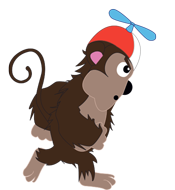
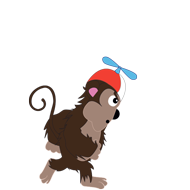
Add monkey sprites

Changed region(s): [[0.0286, 0.0263, 0.9143, 1.0], [0.8, 0.2368, 0.8286, 0.2895]]

diff --git a/iOS/BaoMonkey/ViewController.m b/iOS/BaoMonkey/ViewController.m
@@ -75,16 +75,25 @@
     [PreloadData loadDataWithKey:[SKTexture textureWithImage:[UIImage imageNamed:@"banana"]] key:DATA_BANANA_TEXTURE];
     [PreloadData loadDataWithKey:[SKTexture textureWithImage:[UIImage imageNamed:@"coconut"]] key:DATA_COCONUT_TEXTURE];
     [PreloadData loadDataWithKey:[SKTexture textureWithImage:[UIImage imageNamed:@"prune"]] key:DATA_PRUNE_TEXTURE];
-    [PreloadData loadDataWithKey:[SKTextureAtlas atlasNamed:@"MonkeyWalking"] key:DATA_MONKEY_WALK_ATLAS];
-    [PreloadData loadDataWithKey:[SKTexture textureWithImage:[UIImage imageNamed:@"monkey"]] key:DATA_MONKEY_TEXTURE];
+    
+    [PreloadData loadDataWithKey:[SKTexture textureWithImage:[UIImage imageNamed:@"monkey-waiting"]] key:DATA_MONKEY_WAITING];
+    [PreloadData loadDataWithKey:[SKTexture textureWithImage:[UIImage imageNamed:@"monkey-waiting-coconut"]] key:DATA_MONKEY_WAITING_COCONUT];
+    [PreloadData loadDataWithKey:[SKTexture textureWithImage:[UIImage imageNamed:@"monkey-launch-coconut"]] key:DATA_MONKEY_LAUNCH_COCONUT];
+    [PreloadData loadDataWithKey:[SKTextureAtlas atlasNamed:@"MonkeyWalking"] key:DATA_MONKEY_WALKING_ATLAS];
+    [PreloadData loadDataWithKey:[SKTextureAtlas atlasNamed:@"MonkeyWalkingWithCoconut"] key:DATA_MONKEY_WALKING_COCONUT_ATLAS];
+    [PreloadData loadDataWithKey:[SKTextureAtlas atlasNamed:@"MonkeyDead"] key:DATA_MONKEY_DEAD_ATLAS];
+    
     [PreloadData loadDataWithKey:[SKTexture textureWithImage:[UIImage imageNamed:@"lamber-jack-waiting"]] key:DATA_LAMBERJACK_WAITING];
     [PreloadData loadDataWithKey:[SKTextureAtlas atlasNamed:@"LamberJackWalking"] key:DATA_LAMBERJACK_WALKING_ATLAS];
     [PreloadData loadDataWithKey:[SKTextureAtlas atlasNamed:@"LamberJackCutting"] key:DATA_LAMBERJACK_CUTTING_ATLAS];
     [PreloadData loadDataWithKey:[SKTextureAtlas atlasNamed:@"LamberJackDead"] key:DATA_LAMBERJACK_DEAD_ATLAS];
+    
     [PreloadData loadDataWithKey:[SKTexture textureWithImage:[UIImage imageNamed:@"hunter-waiting"]] key:DATA_HUNTER_WAITING];
     [PreloadData loadDataWithKey:[SKTextureAtlas atlasNamed:@"HunterWalking"] key:DATA_HUNTER_WALKING_ATLAS];
     [PreloadData loadDataWithKey:[SKTextureAtlas atlasNamed:@"HunterDead"] key:DATA_HUNTER_DEAD_ATLAS];
+    
     [PreloadData loadDataWithKey:[SKTexture textureWithImage:[UIImage imageNamed:@"plateform"]] key:DATA_PLATEFORM];
+    
     [PreloadData loadDataWithKey:[SKTexture textureWithImageNamed:@"button-play"] key:DATA_BUTTON_PLAY];
     [PreloadData loadDataWithKey:[SKTexture textureWithImageNamed:@"button-pause"] key:DATA_BUTTON_PAUSE];
     [PreloadData loadDataWithKey:[SKTexture textureWithImageNamed:@"button-replay"] key:DATA_BUTTON_REPLAY];

diff --git a/iOS/BaoMonkey/Monkey.m b/iOS/BaoMonkey/Monkey.m
@@ -19,7 +19,7 @@
     self = [super init];
     if (self) {
         // Init the sprites of the Monkey
-        sprite = [SKSpriteNode spriteNodeWithTexture:[PreloadData getDataWithKey:DATA_MONKEY_TEXTURE] size:[BaoSize monkey]];
+        sprite = [SKSpriteNode spriteNodeWithTexture:[PreloadData getDataWithKey:DATA_MONKEY_WAITING] size:[BaoSize monkey]];
         sprite.position = position;
 
         [self loadWalkingSprites];
@@ -68,7 +68,7 @@
 
 -(void)loadWalkingSprites {
     NSMutableArray *walkFrames = [[NSMutableArray alloc] init];
-    SKTextureAtlas *monkeyWalkingAtlas = [PreloadData getDataWithKey:DATA_MONKEY_WALK_ATLAS];
+    SKTextureAtlas *monkeyWalkingAtlas = [PreloadData getDataWithKey:DATA_MONKEY_WALKING_ATLAS];
     NSUInteger numberOfFrames = monkeyWalkingAtlas.textureNames.count;
     
     for (int i = 1; i <= numberOfFrames; i++) {
@@ -100,7 +100,7 @@
 }
 
 -(void)wait {
-    SKTexture *texture = [PreloadData getDataWithKey:DATA_MONKEY_TEXTURE];
+    SKTexture *texture = [PreloadData getDataWithKey:DATA_MONKEY_WAITING];
     [sprite setTexture:texture];
 }
 

diff --git a/iOS/BaoMonkey/Define.h b/iOS/BaoMonkey/Define.h
@@ -33,8 +33,12 @@
 # define DATA_PRUNE_TEXTURE                 @"prune_texture"
 # define DATA_COCONUT_SOUND                 @"coconut_sound"
 
-# define DATA_MONKEY_TEXTURE                @"monkey_texture"
-# define DATA_MONKEY_WALK_ATLAS             @"monkey_walk_atlas_texture"
+# define DATA_MONKEY_WAITING                @"DATA_MONKEY_WAITING"
+# define DATA_MONKEY_WALKING_ATLAS          @"DATA_MONKEY_WALKING_ATLAS"
+# define DATA_MONKEY_WALKING_COCONUT_ATLAS  @"DATA_MONKEY_WALKING_COCONUT_ATLAS"
+# define DATA_MONKEY_WAITING_COCONUT        @"DATA_MONKEY_WAITING_COCONUT"
+# define DATA_MONKEY_LAUNCH_COCONUT         @"DATA_MONKEY_LAUNCH_COCONUT"
+# define DATA_MONKEY_DEAD_ATLAS             @"DATA_MONKEY_DEAD_ATLAS"
 
 # define DATA_LAMBERJACK_WALKING_ATLAS      @"DATA_LAMBERJACK_WALKING_ATLAS"
 # define DATA_LAMBERJACK_CUTTING_ATLAS      @"DATA_LAMBERJACK_CUTTING_ATLAS"
